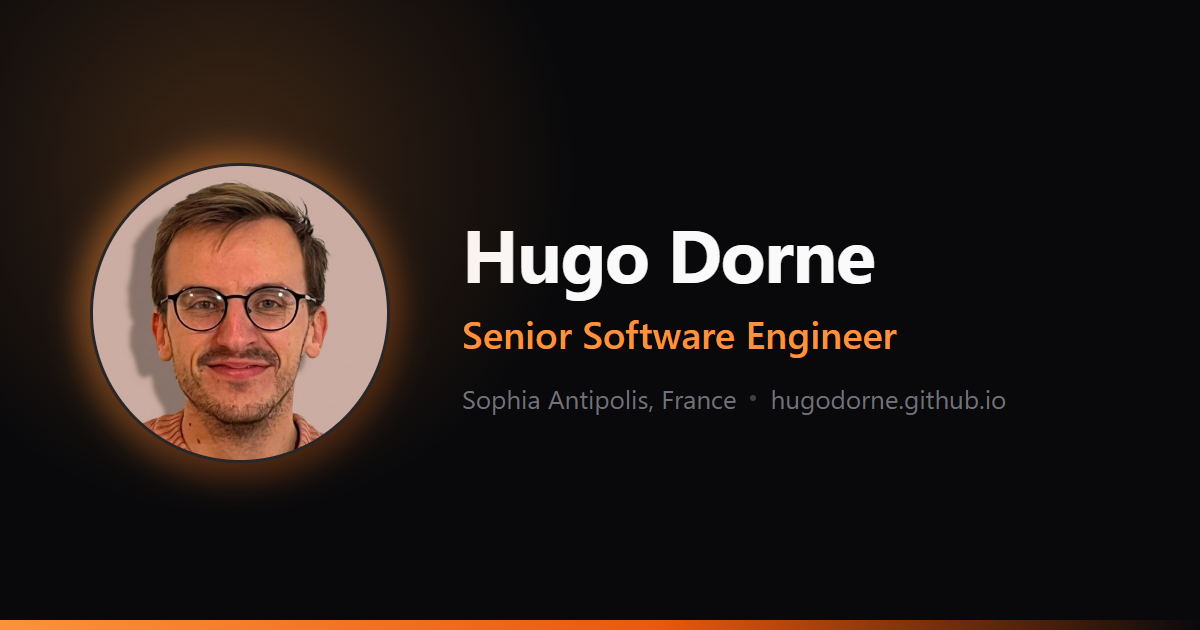
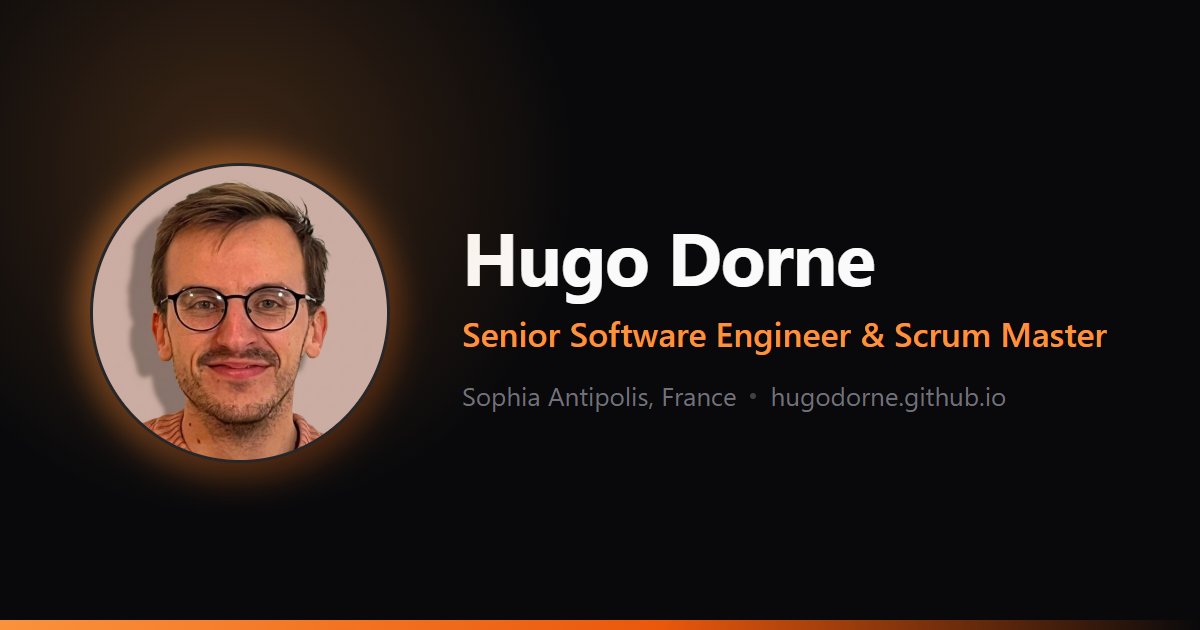
Date the two Sopra Steria missions and put Scrum Master in the title
The insurance work ran over the final year, January 2025 to February 2026,
alongside MANE rather than after it — so the two entries carry their real
ranges instead of the shared one I had assumed, and the overlap now reads as
what it was. MANE's line of business comes off the header.

Scrum Master joins the headline title, which propagates to the CV, the hero,
the page titles, the structured-data jobTitle and the Open Graph card. Two
missions in the role back it up.

The longer title stranded "Master" on its own line twice — on the OG card,
where it also needed a point off the font size to hold one line, and on the
mobile hero. Both now balance, so the break lands after "Engineer" and a
future title change cannot strand a word again.

diff --git a/src/i18n/ui.ts b/src/i18n/ui.ts
@@ -46,7 +46,7 @@ const en = {
 	"section.nav": "Section navigation",
 	"section.navigateTo": "Navigate to",
 
-	"home.title": "Hugo Dorne — Senior Software Engineer",
+	"home.title": "Hugo Dorne — Senior Software Engineer & Scrum Master",
 	"home.description":
 		"Hugo Dorne, Senior Software Engineer near Sophia Antipolis. Full stack and AI with Java, Spring Boot, Angular, Spring AI and LangChain4J.",
 	"hero.viewMap": "on Google Maps",
@@ -142,7 +142,7 @@ const fr: Translations = {
 	"section.nav": "Navigation par section",
 	"section.navigateTo": "Aller à",
 
-	"home.title": "Hugo Dorne — Ingénieur logiciel senior",
+	"home.title": "Hugo Dorne — Ingénieur logiciel senior & Scrum Master",
 	"home.description":
 		"Hugo Dorne, ingénieur logiciel senior à Sophia Antipolis. Full stack et IA avec Java, Spring Boot, Angular, Spring AI et LangChain4J.",
 	"hero.viewMap": "sur Google Maps",
